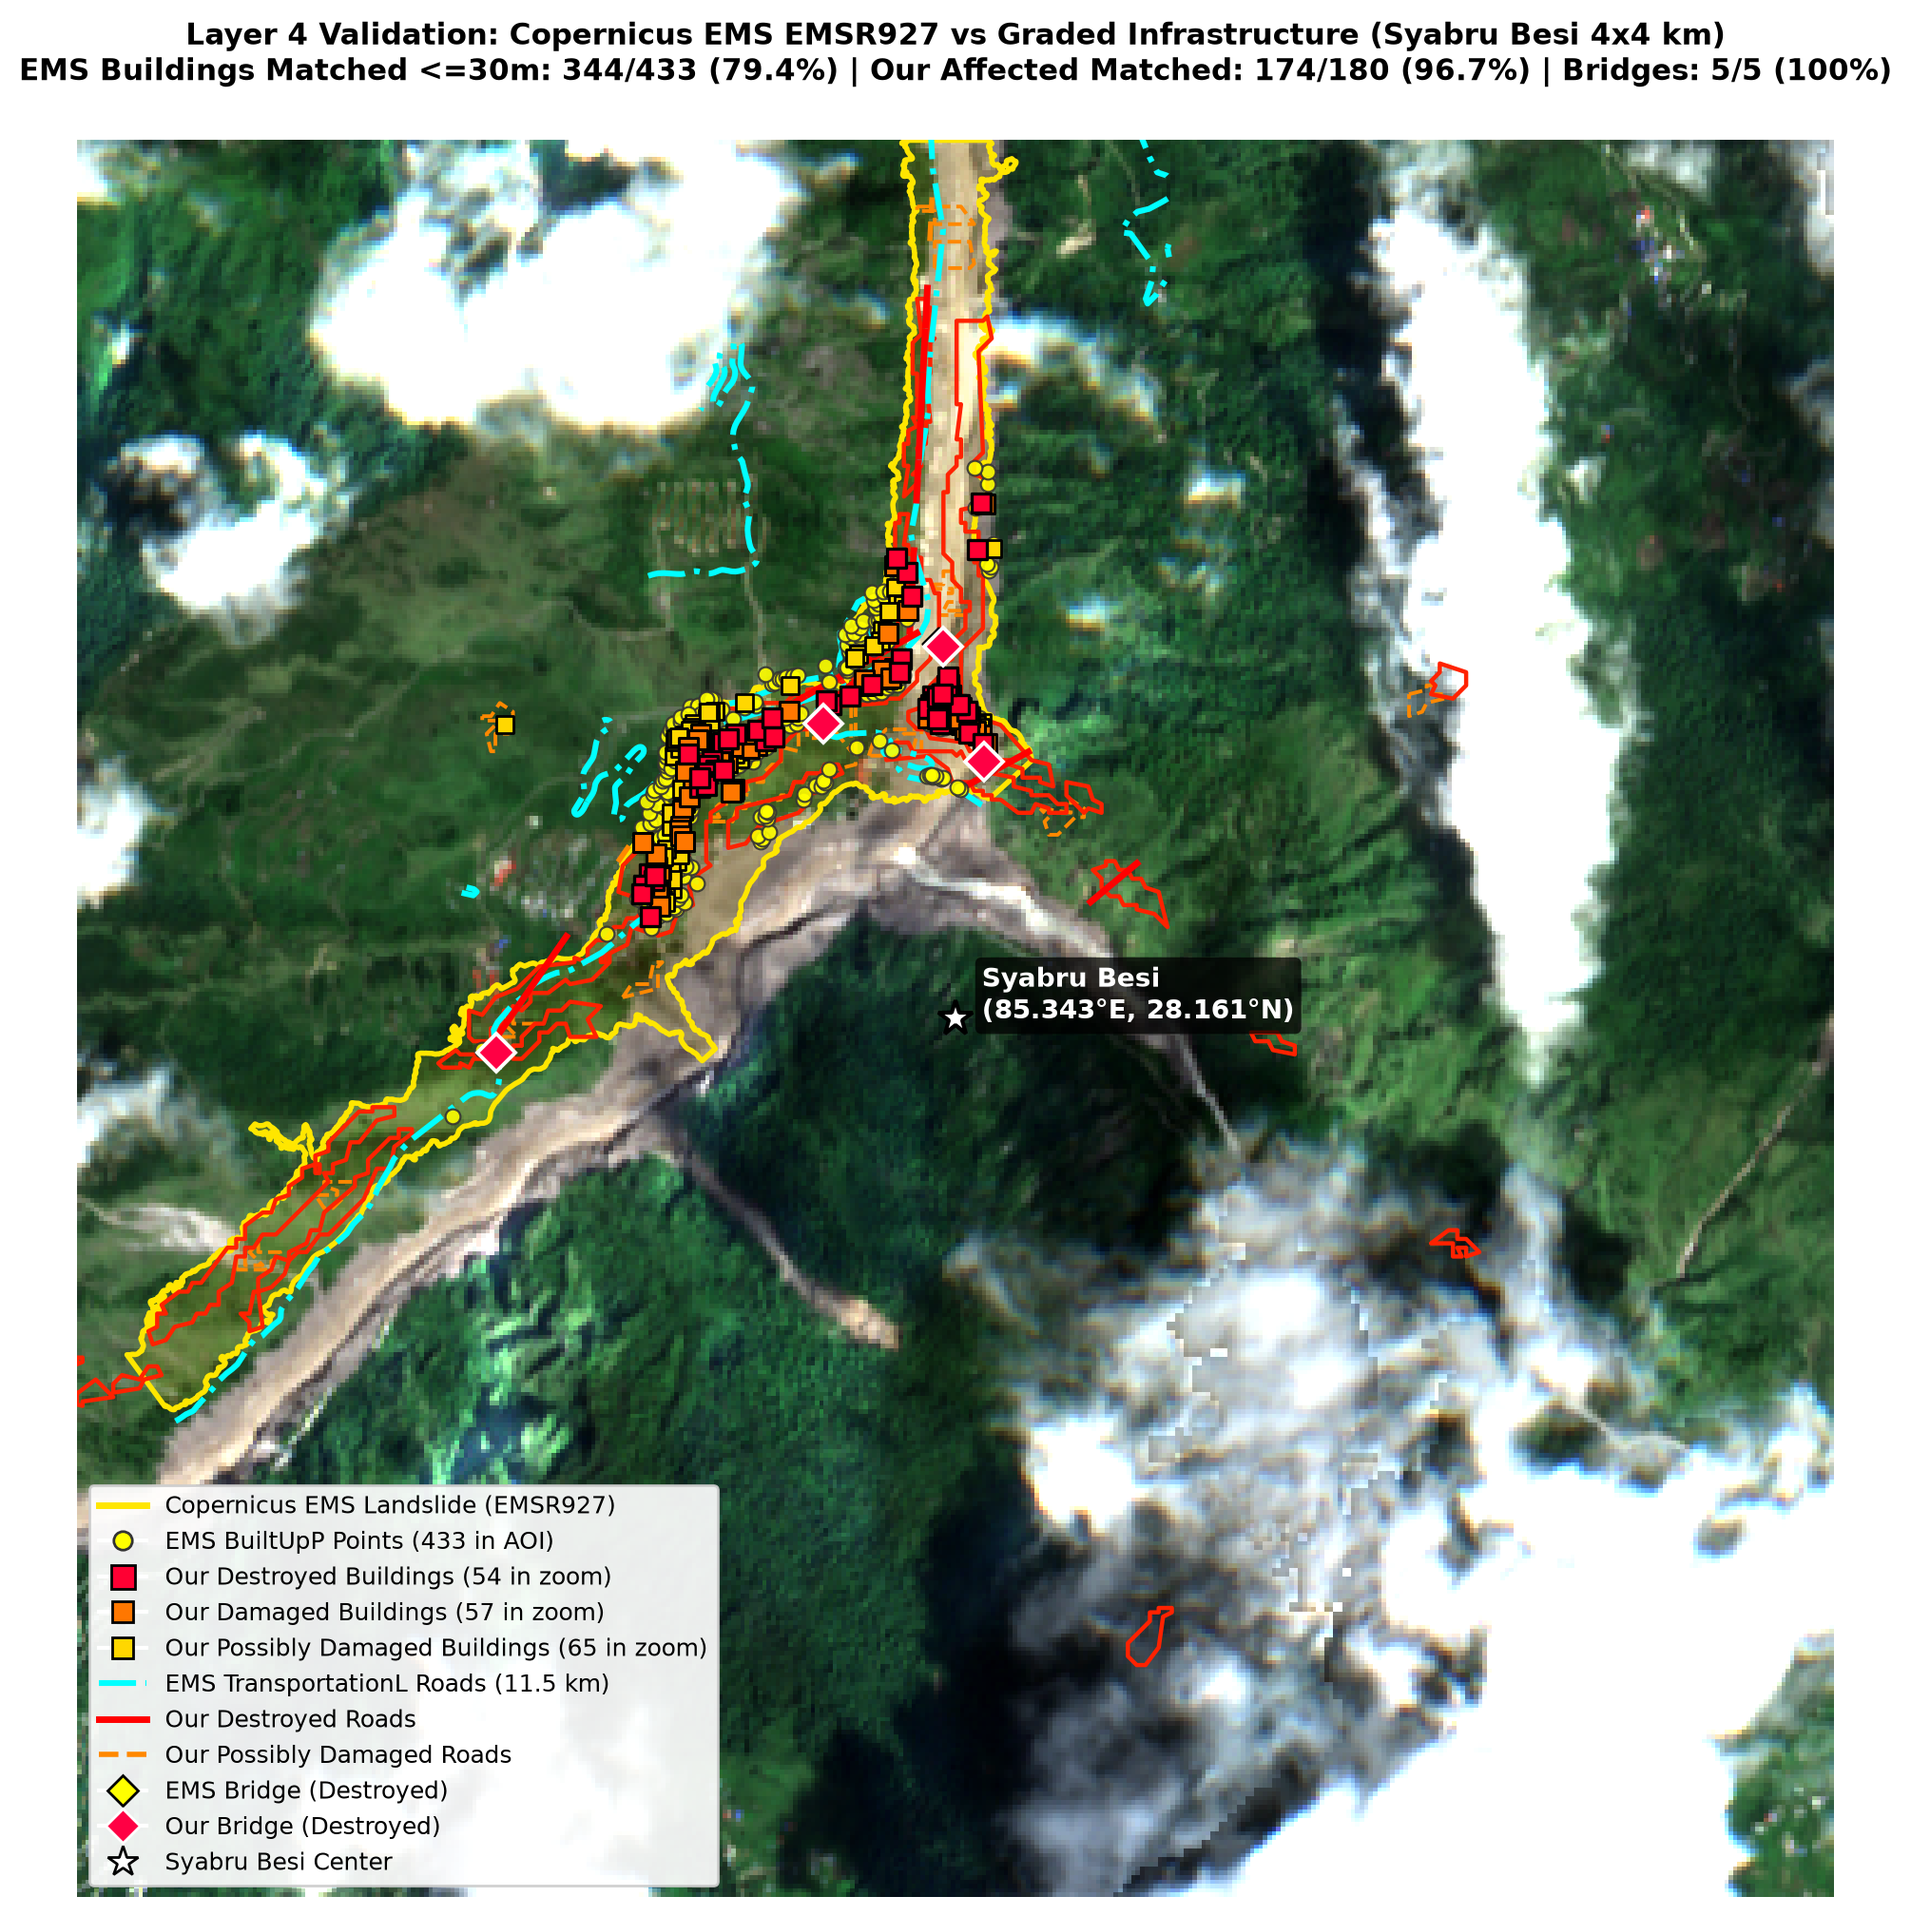
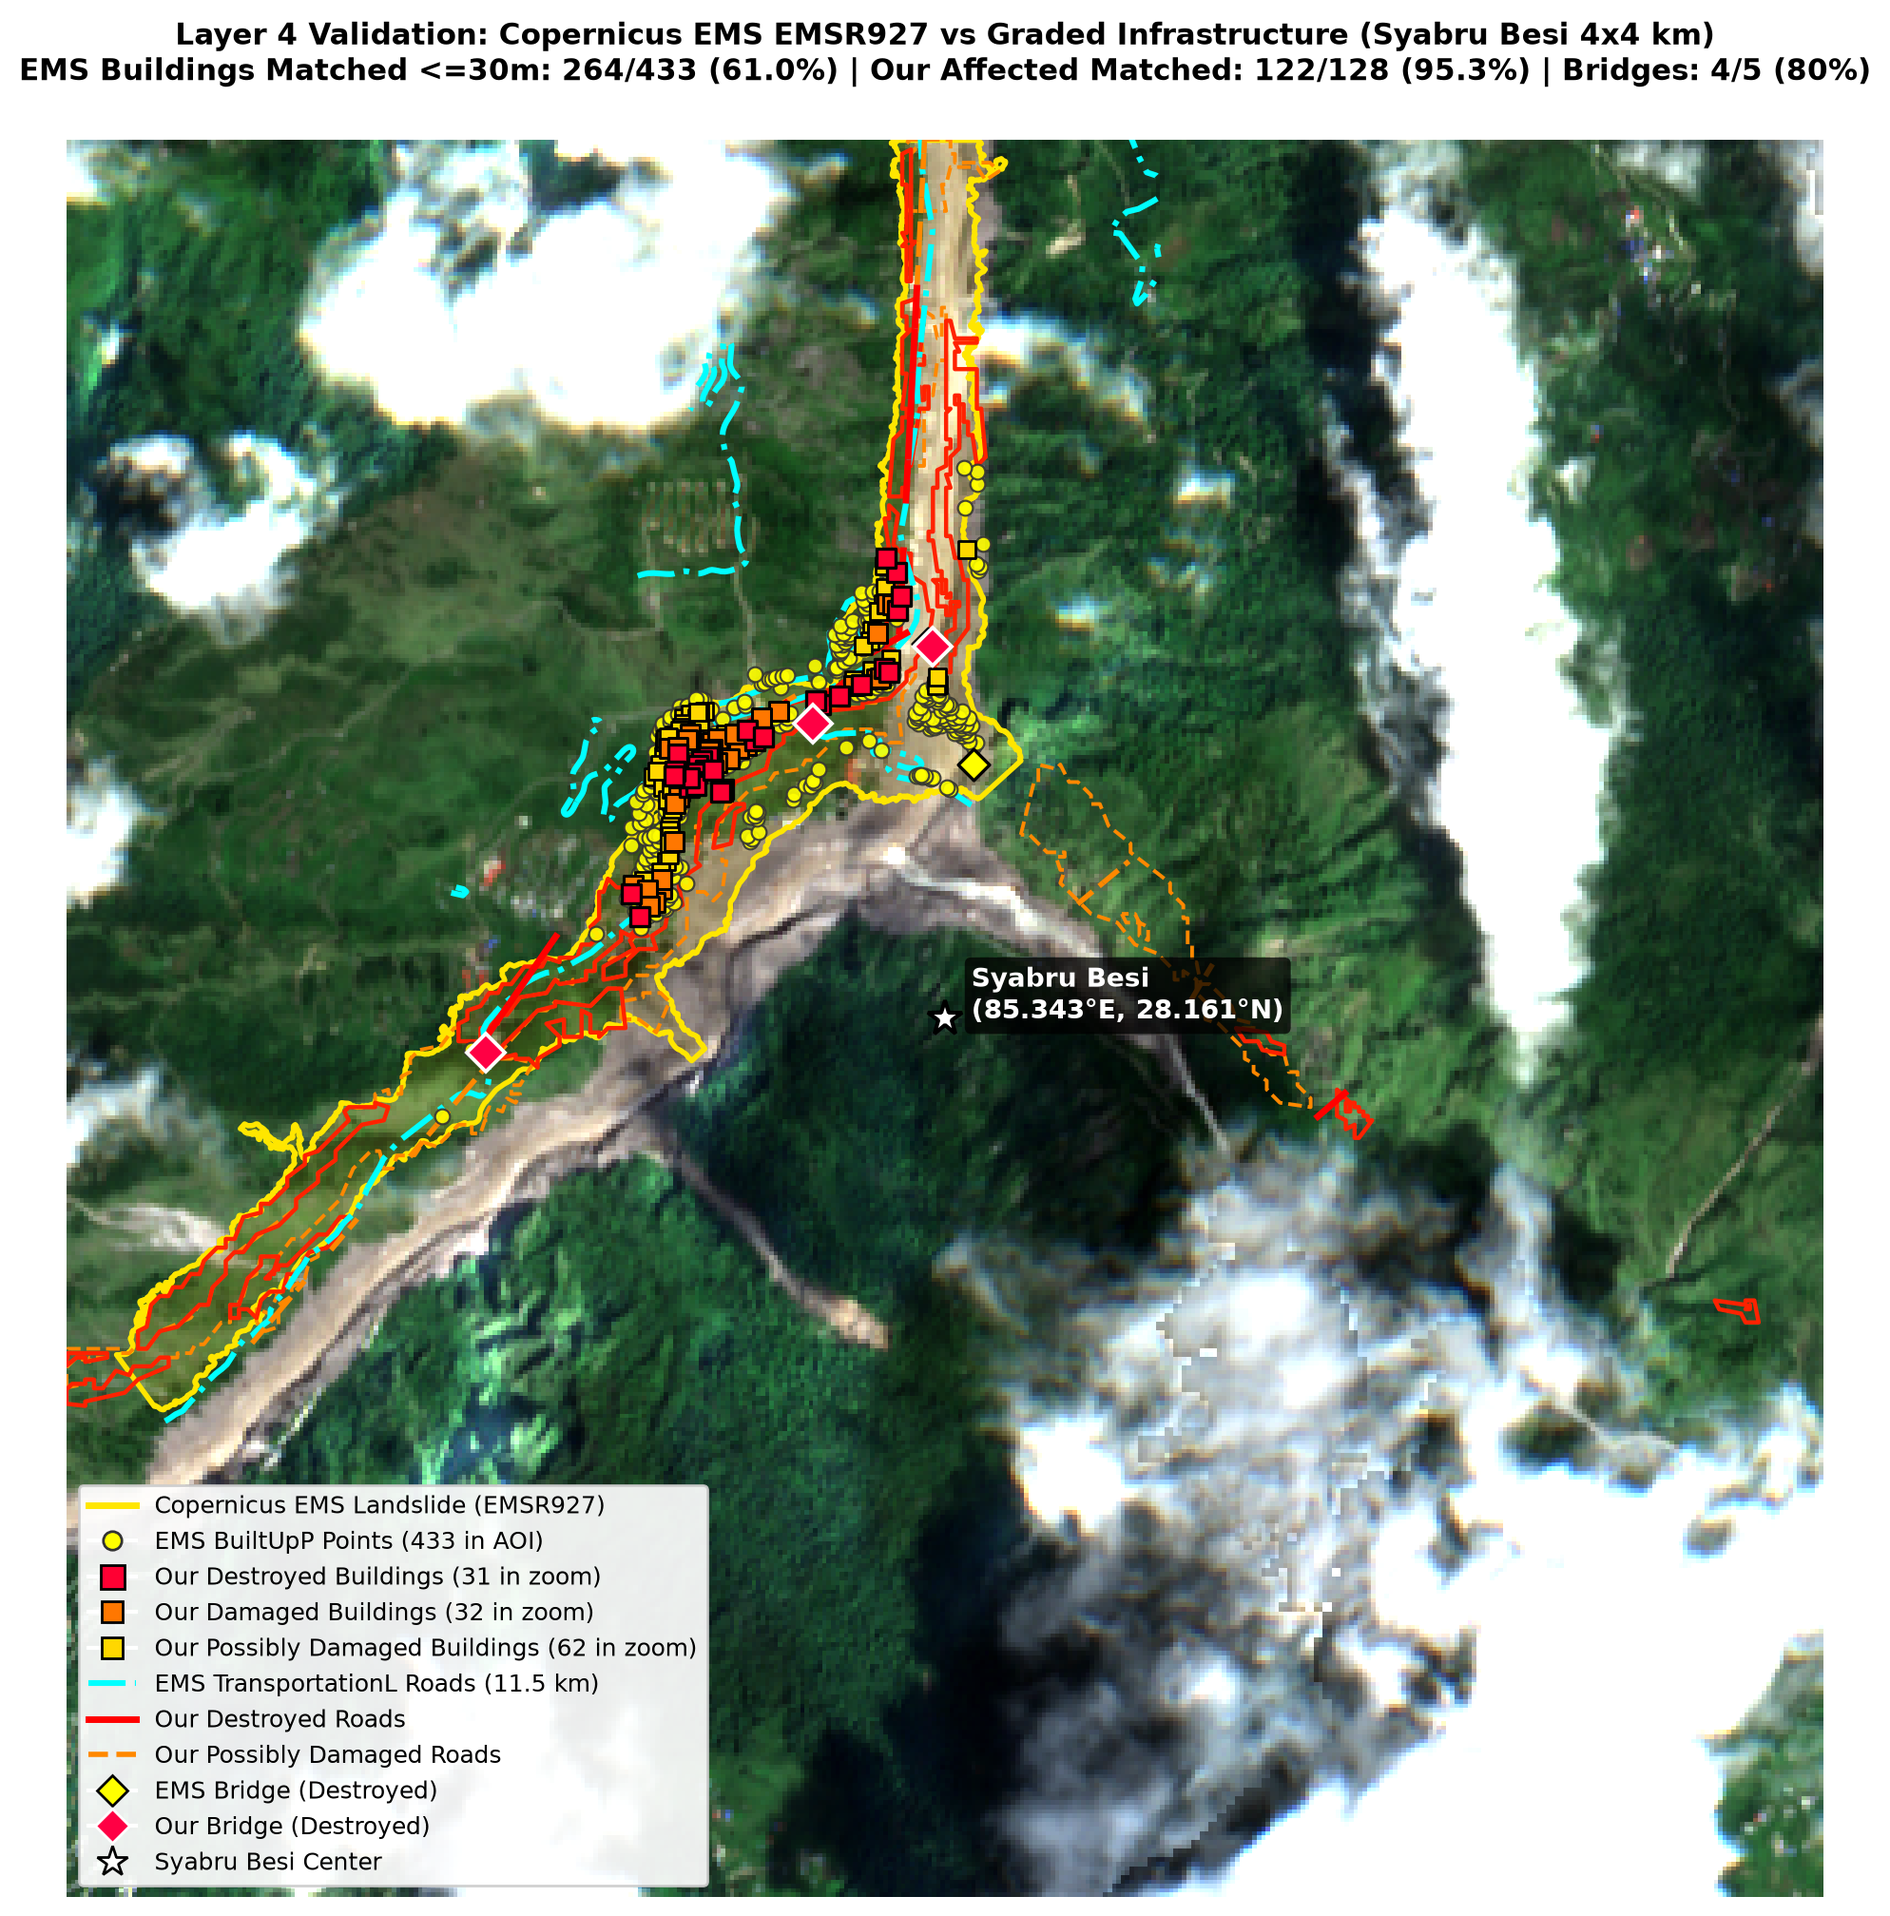
L4.2: Infrastructure damage grading re-run on L2.4 outputs

diff --git a/validation/validate_l4.py b/validation/validate_l4.py
@@ -251,7 +251,7 @@ def run_validation_l4():
 
     ax.set_title(
         "Layer 4 Validation: Copernicus EMS EMSR927 vs Graded Infrastructure (Syabru Besi 4x4 km)\n"
-        f"EMS Buildings Matched <=30m: {ems_matched_aff_30m}/{len(ems_b)} ({pct_ems_matched_aff:.1f}%) | Our Affected Matched: {our_aff_matched_30m}/{len(our_b_aoi_aff)} ({pct_our_aff_matched:.1f}%) | Bridges: {ems_br_matched_30m}/{len(ems_br)} (100%)",
+        f"EMS Buildings Matched <=30m: {ems_matched_aff_30m}/{len(ems_b)} ({pct_ems_matched_aff:.1f}%) | Our Affected Matched: {our_aff_matched_30m}/{len(our_b_aoi_aff)} ({pct_our_aff_matched:.1f}%) | Bridges: {ems_br_matched_30m}/{len(ems_br)} ({pct_ems_br_matched:.0f}%)",
         fontsize=11.0, fontweight="bold", pad=12
     )
 
